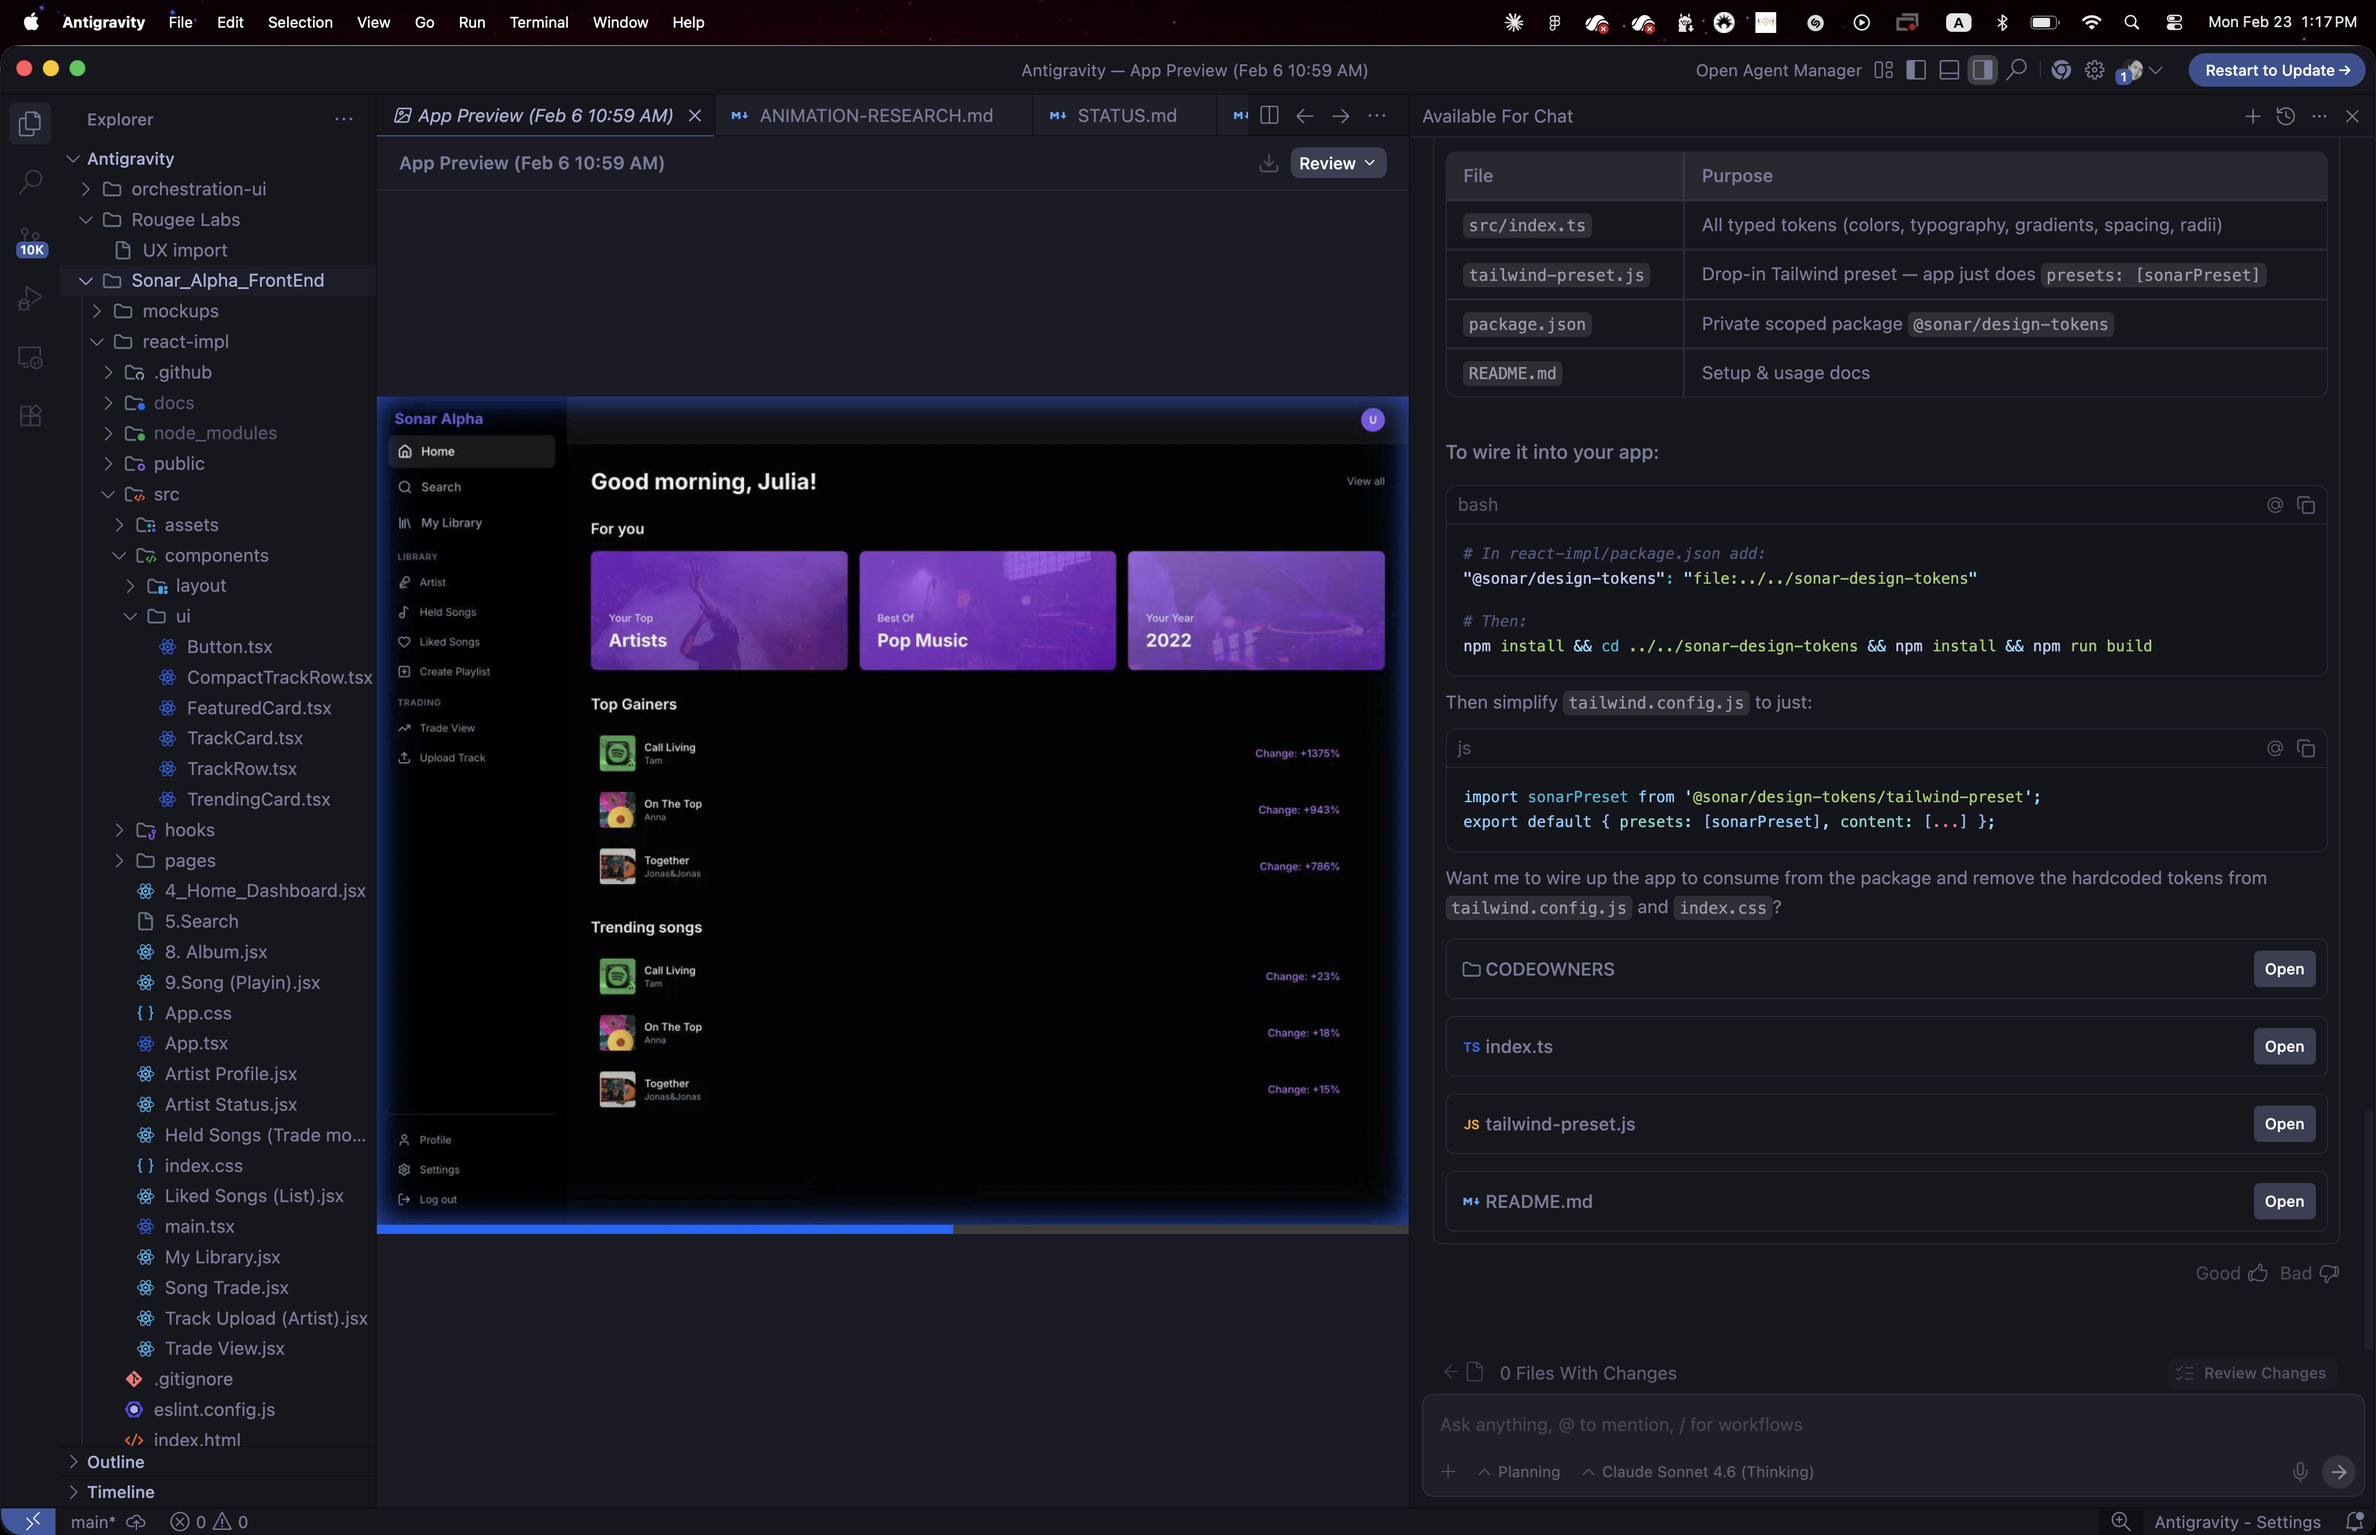
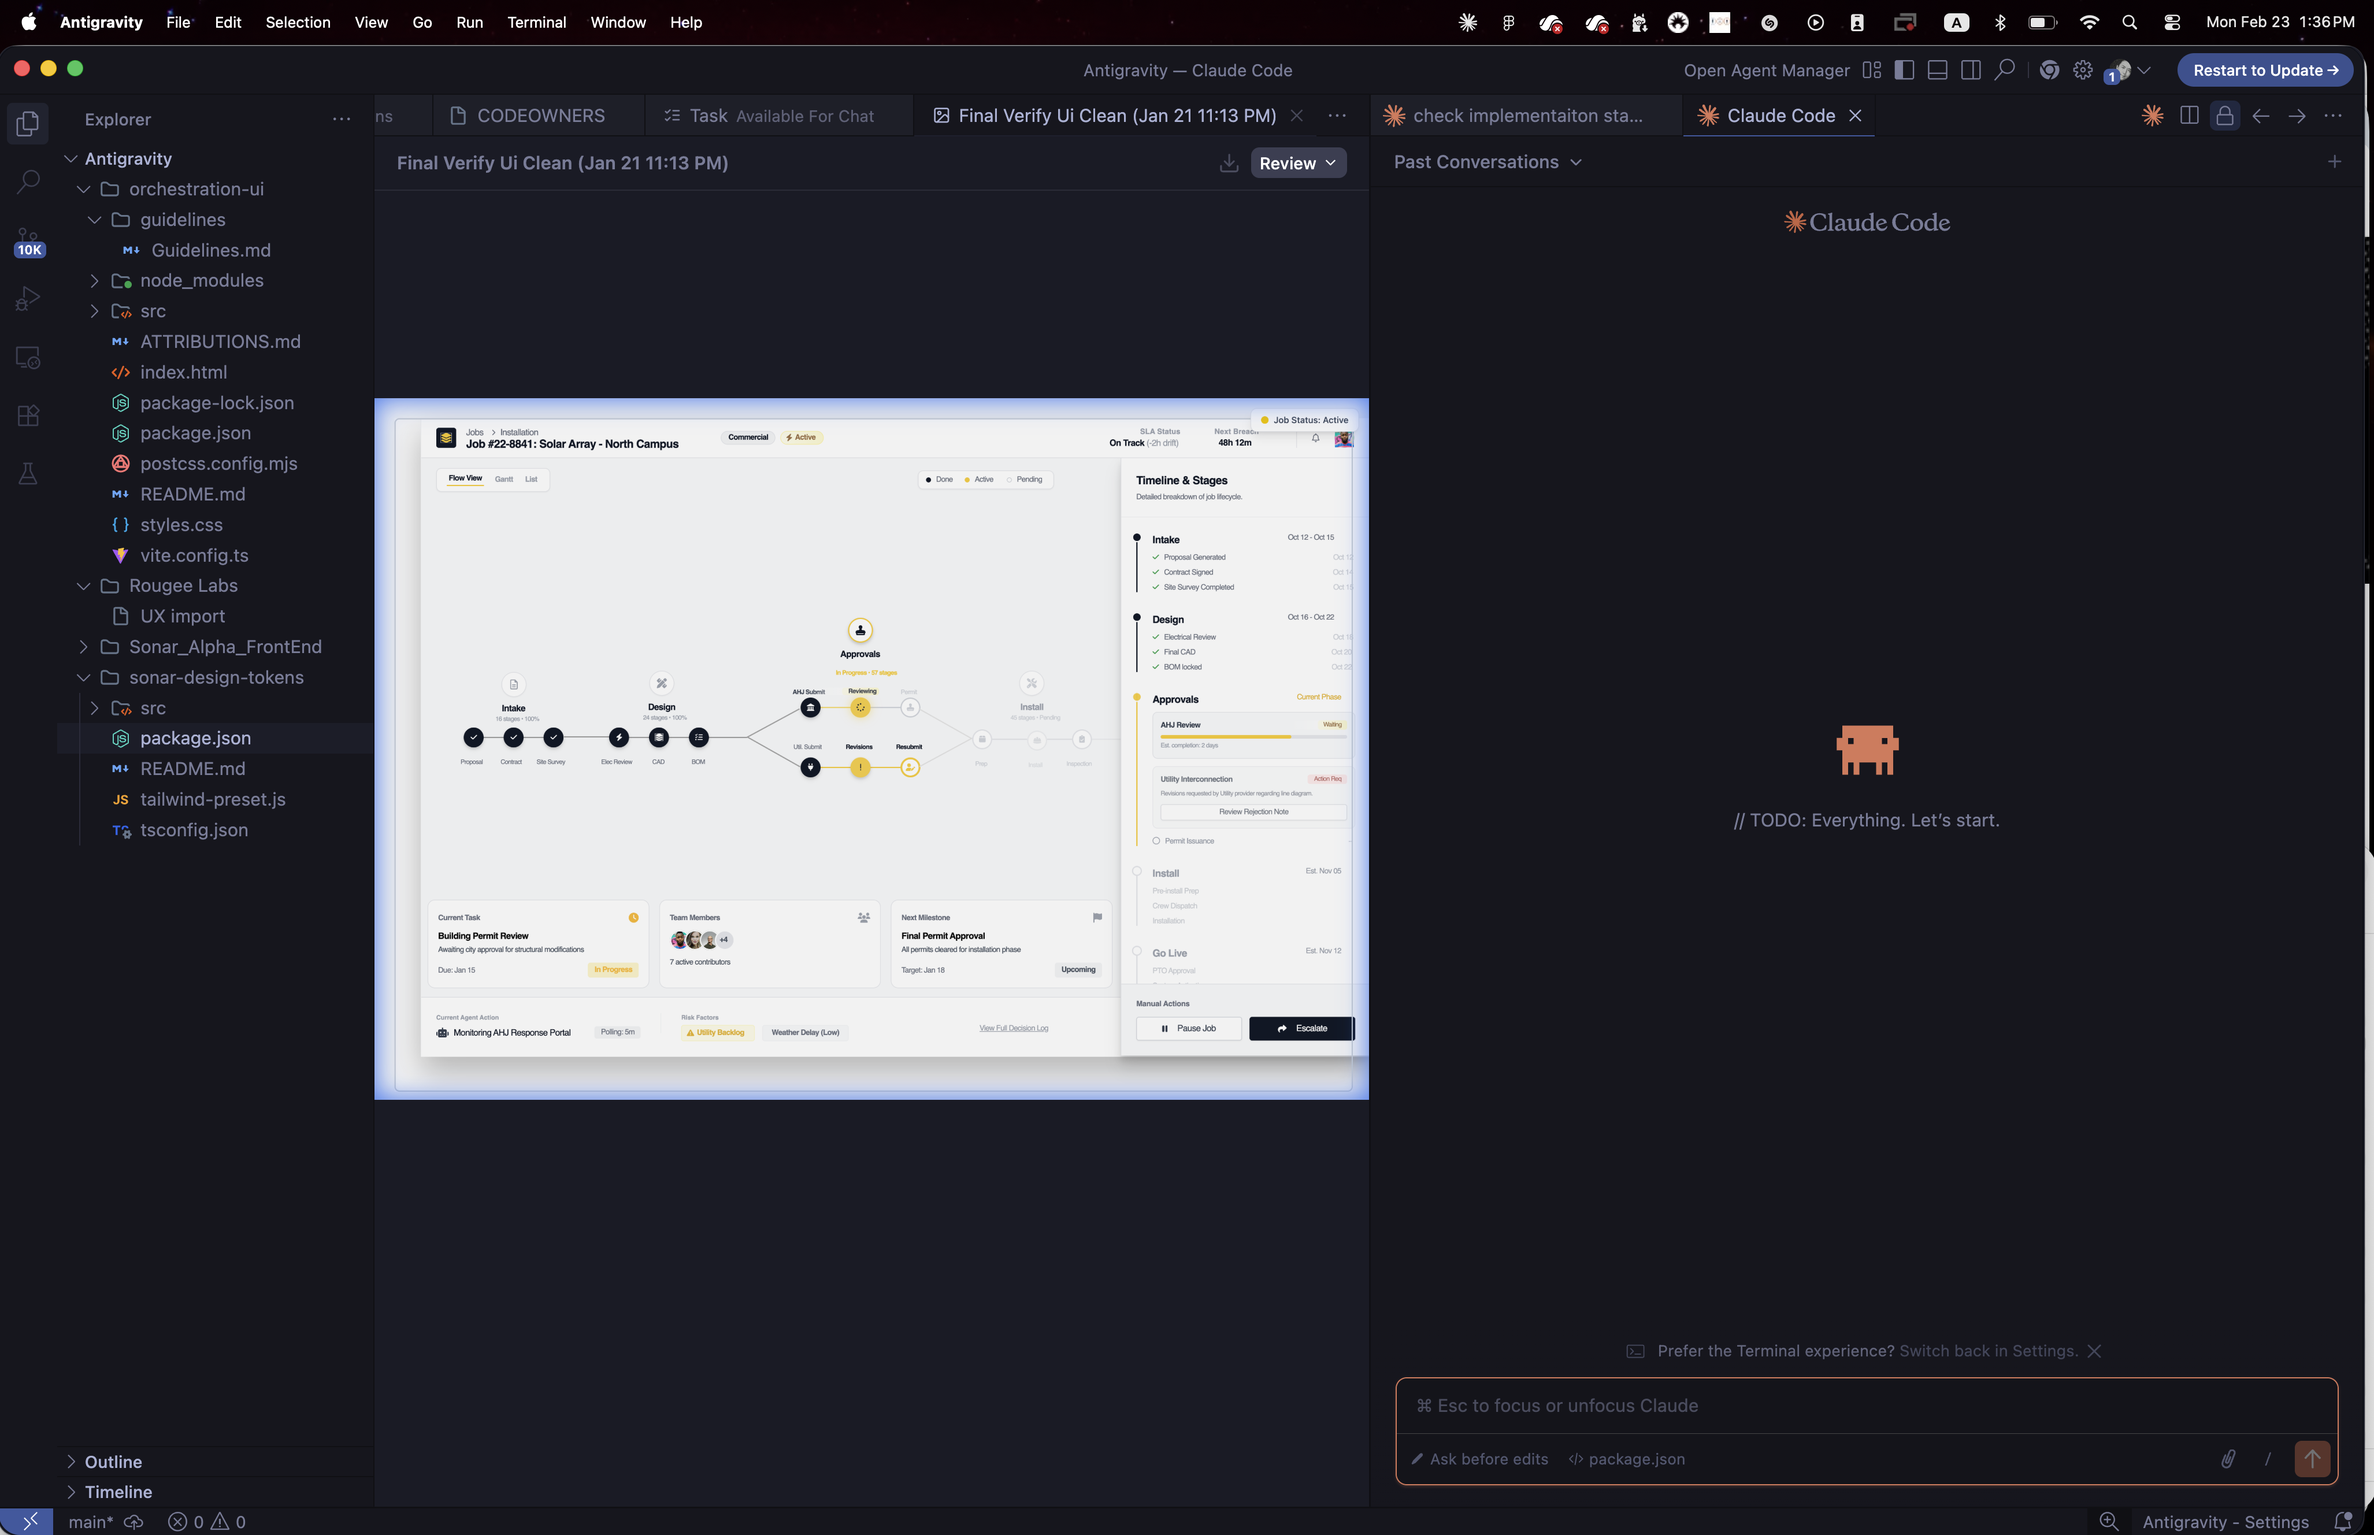
feat(ai-workflow): swap hero to orchestration-ui Antigravity screenshot
- Replace Sonar music-app screenshot with orchestration-ui / Solar Array job card
- Update alt text and caption to match new content

diff --git a/case-studies/ai-workflow.html b/case-studies/ai-workflow.html
@@ -276,8 +276,8 @@
   </div>
   <div class="reveal" style="transition-delay: 0.2s">
     <div class="cs-hero__image" data-kanji="流" style="background:linear-gradient(160deg, #020A14 0%, #051020 100%); --hero-kanji-color:rgba(255,255,255,0.04); padding:0;">
-      <img src="../img/library/ai-workflow/antigravity-screenshot.png" alt="Google Antigravity IDE — AI-native design workflow with Figma MCP Claude Code pipeline" loading="eager" style="object-fit:cover; width:100%; height:100%;">
-      <span class="cs-hero__image-label">Google Antigravity — App Preview live in IDE</span>
+      <img src="../img/library/ai-workflow/antigravity-screenshot.png" alt="Google Antigravity IDE — orchestration-ui project, Solar Array job card built with Figma MCP and Claude Code" loading="eager" style="object-fit:cover; width:100%; height:100%;">
+      <span class="cs-hero__image-label">Google Antigravity — orchestration-ui live in IDE</span>
     </div>
   </div>
 </section>
